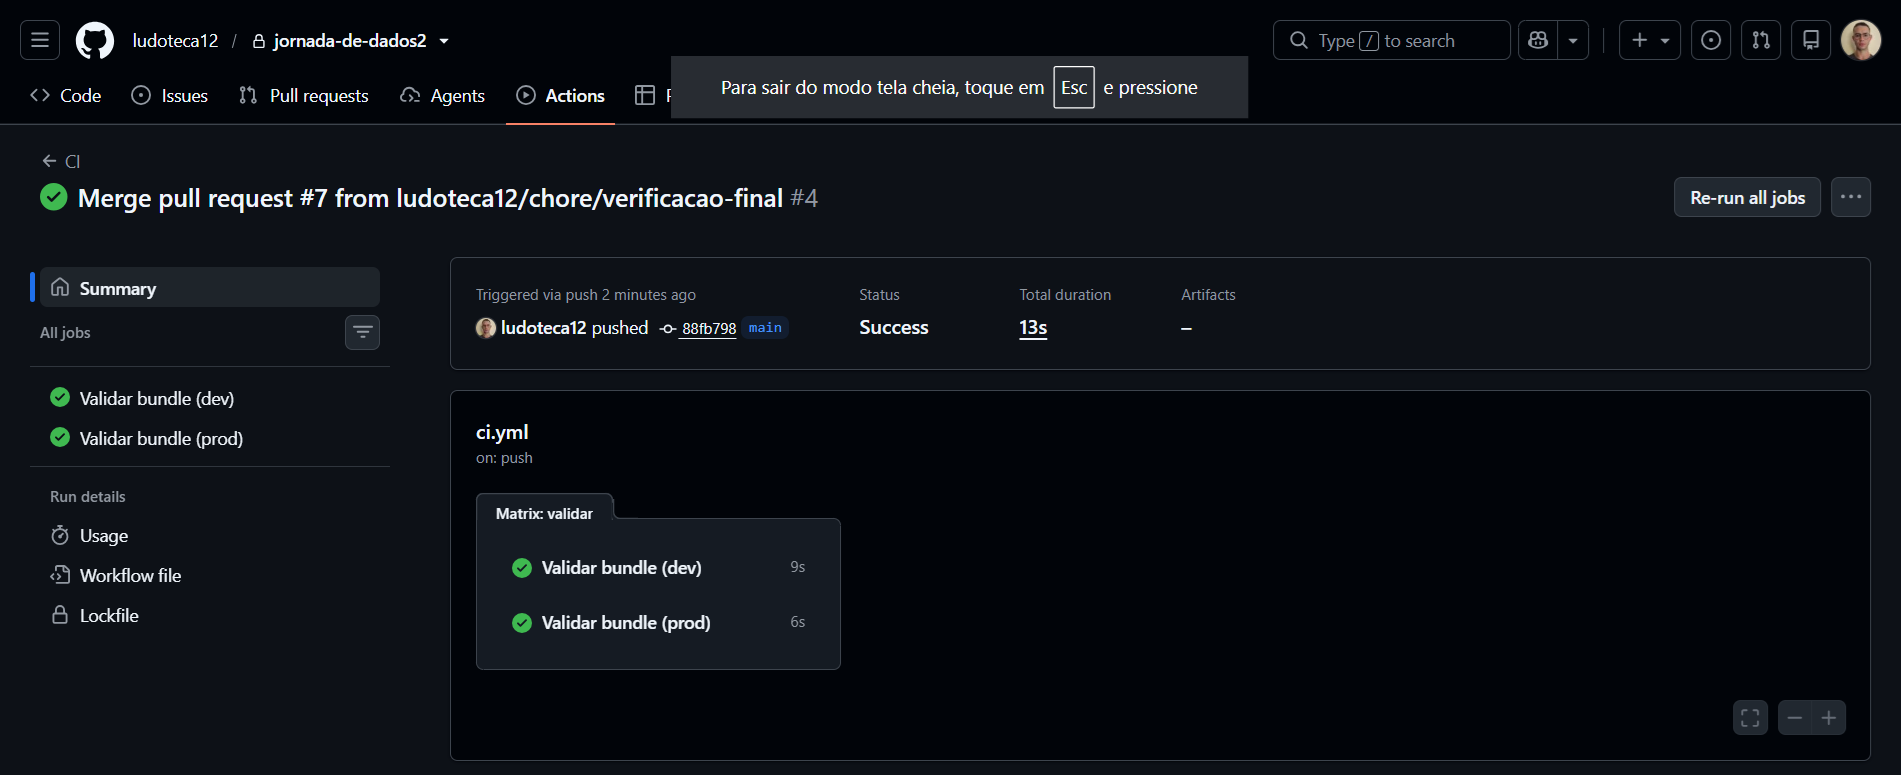
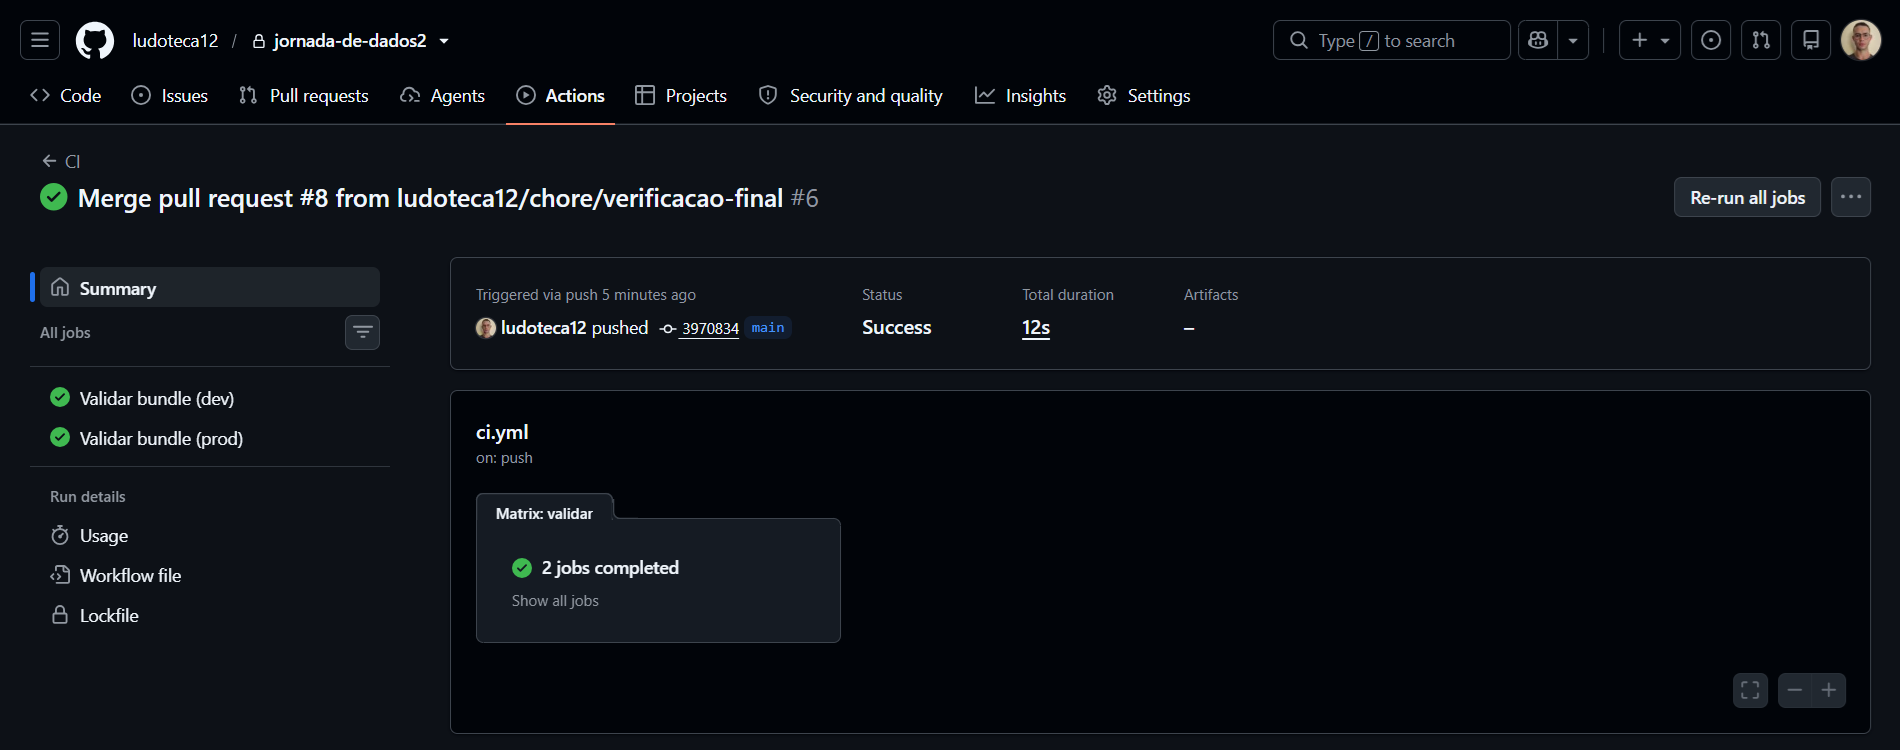
docs: onde encontrar cada credencial do Supabase
- Guia de reprodução ganha uma tabela que liga cada secret do scope ao lugar
  do painel do Supabase onde o valor aparece (bucket, endpoint, region e as
  duas partes da access key), com exemplos e como achar o project-ref.
- Print do CI atualizado, sem a faixa de tela cheia do navegador.

diff --git a/ecommerce_lakehouse/README.md b/ecommerce_lakehouse/README.md
@@ -65,7 +65,21 @@ O `<perfil>` é o nome que você escolher no login; ele é passado em todos os c
    `preco_competidores.parquet`.
 3. Em **Storage → S3 Connection**, habilite o protocolo S3 e anote o **Endpoint**
    (`https://<project-ref>.supabase.co/storage/v1/s3`) e a **Region**.
-4. Na mesma tela, gere uma **access key**. A secret só aparece uma vez.
+4. Na mesma tela, em **S3 Access Keys**, clique em **New access key**. O Supabase mostra o
+   **Access key ID** e o **Secret access key**. A secret só aparece uma vez: copie na hora.
+
+Onde está cada valor que vira secret no próximo passo:
+
+| Secret | Onde encontrar no Supabase | Exemplo |
+|---|---|---|
+| `supabase_bucket` | Nome que você deu ao bucket no passo 1 (lista em **Storage**) | `ecommerce-dados` |
+| `supabase_endpoint_url` | **Storage → S3 Connection → Endpoint** | `https://abcdefghijkl.supabase.co/storage/v1/s3` |
+| `supabase_region` | **Storage → S3 Connection → Region**. É a região escolhida ao criar o projeto. | `sa-east-1` |
+| `supabase_access_key_id` | **Access key ID** gerado no passo 4 | sequência de letras e números |
+| `supabase_secret_access_key` | **Secret access key** gerado no passo 4 (só aparece na criação; se perder, gere outra chave) | sequência longa de letras e números |
+
+O `<project-ref>` do endpoint é o identificador do projeto. Ele também aparece na URL do painel
+(`supabase.com/dashboard/project/<project-ref>`) e em **Project Settings → General**.
 
 Projetos gratuitos do Supabase pausam após 7 dias sem uso. Se a extração falhar por conexão,
 restaure o projeto no painel.
